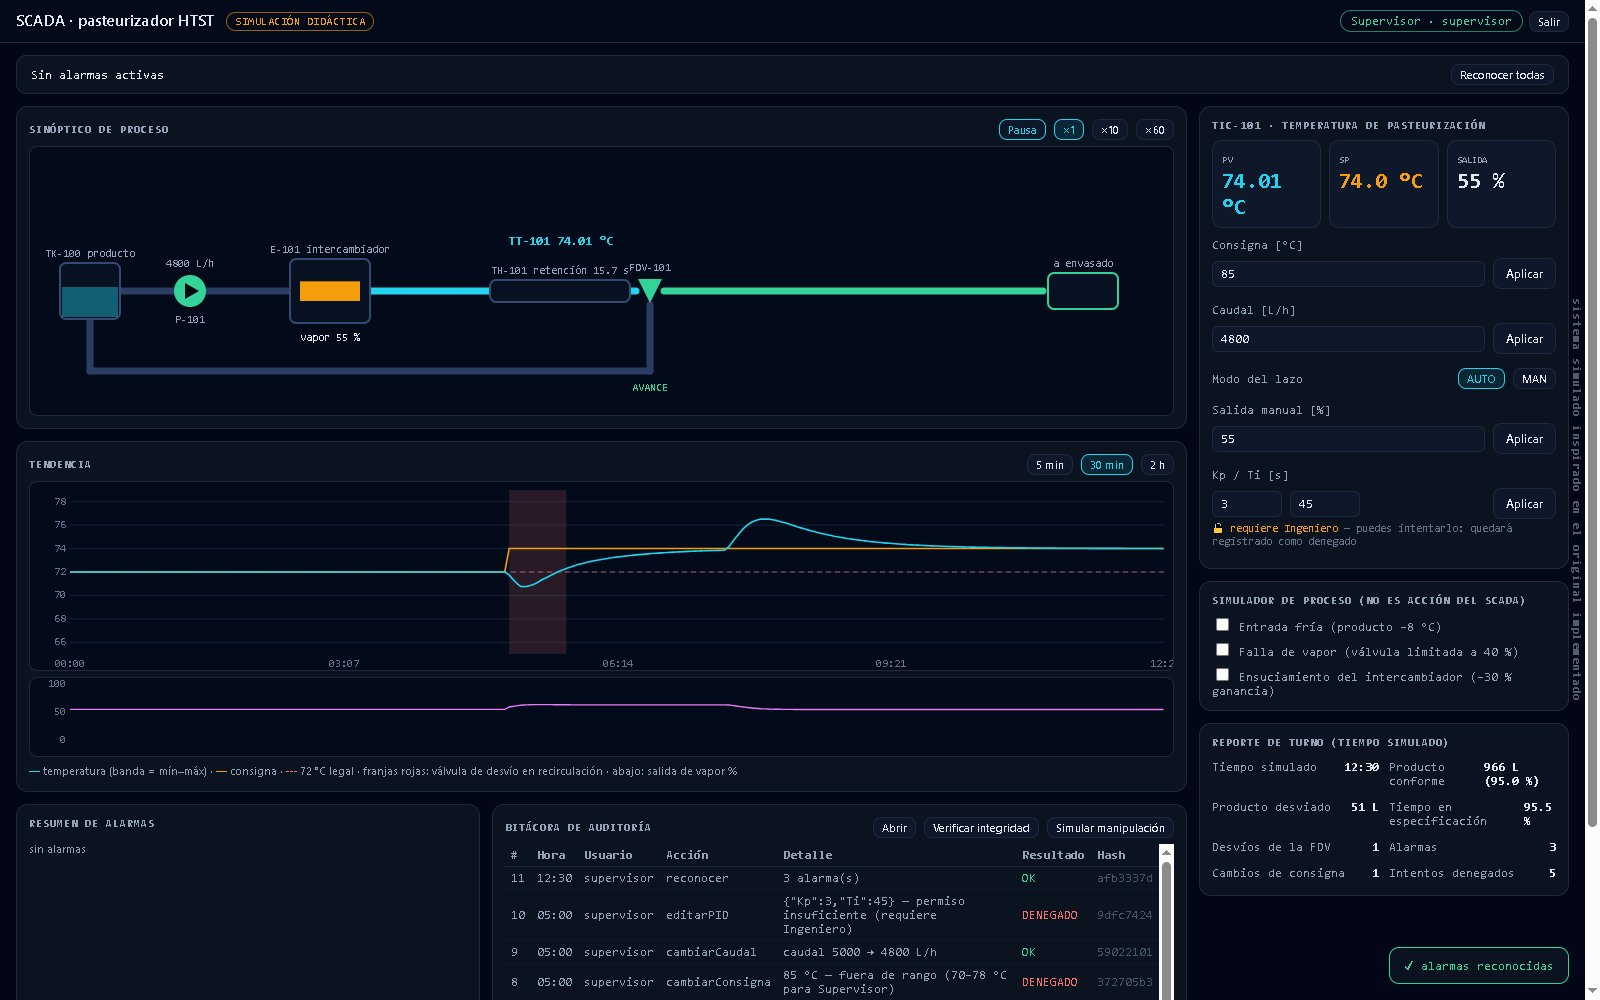
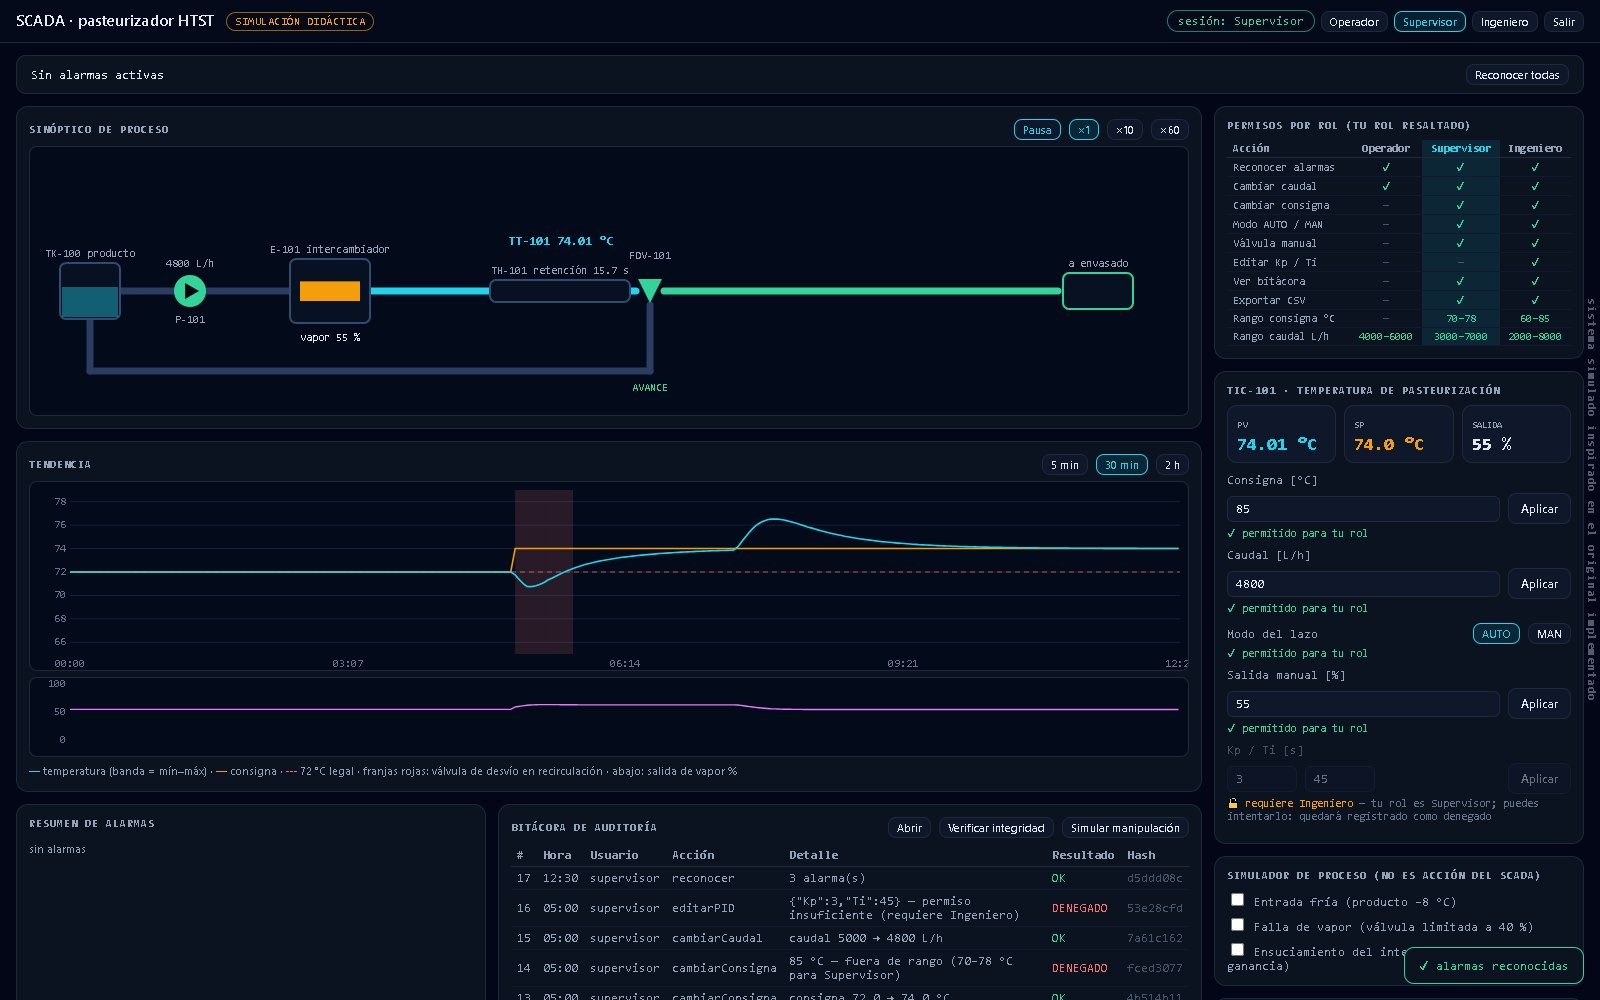
SCADA web: cambio directo de rol, matriz de permisos y controles bloqueados segun el rol
La barra de sesion ya no se redibuja en cada tick; se corrigen etiquetas superpuestas y el valor PV en una linea.

diff --git a/public/demos/scada-web-pasteurizador/index.html b/public/demos/scada-web-pasteurizador/index.html
@@ -65,11 +65,14 @@ body::after {
 #cvMimic { height: 270px; } #cvTr { height: 190px; } #cvU { height: 80px; margin-top: 6px; }
 .fp { display: grid; grid-template-columns: 1fr 1fr 1fr; gap: 8px; margin-bottom: 10px; }
 .fp .c { background: var(--panel2); border: 1px solid var(--line); border-radius: 10px; padding: 7px 9px; }
-.fp .c b { display: block; font: 600 22px var(--mono); } .fp .c span { font: 10px var(--mono); color: var(--mut); text-transform: uppercase; }
+.fp .c b { display: block; font: 600 18px var(--mono); white-space: nowrap; } .fp .c span { font: 10px var(--mono); color: var(--mut); text-transform: uppercase; }
 .ctl { display: grid; grid-template-columns: 1fr auto; gap: 6px 8px; align-items: center; margin-bottom: 8px; font: 12px var(--mono); }
 .ctl .req { color: #64748b; font-size: 10.5px; grid-column: 1 / -1; margin-top: -4px; }
 .ctl input[type=number] { width: 100%; }
 .lock { color: var(--amber); }
+.ctl.bloq > :not(.req) { opacity: .45; } button.bloq { opacity: .5; }
+.perm td, .perm th { padding: 2px 6px; font-size: 11px; text-align: center; white-space: nowrap; } .perm td:first-child, .perm th:first-child { text-align: left; color: var(--mut); }
+.perm .cur { background: rgba(34, 211, 238, .1); } .perm th.cur { color: var(--cyan); } .perm .si { color: var(--green); } .perm .no { color: #475569; }
 #toast { position: fixed; right: 16px; bottom: 16px; max-width: 420px; padding: 10px 14px; border-radius: 10px; font: 12px var(--mono); display: none; z-index: 20; border: 1px solid; background: #0b1220; }
 #toast.ok { border-color: var(--green); color: var(--green); } #toast.no { border-color: var(--red); color: var(--red); }
 .low { display: grid; grid-template-columns: 1fr 1.5fr; gap: 12px; }
@@ -115,6 +118,7 @@ tr.nr td { animation: parp 1s infinite; } @keyframes parp { 50% { background: rg
   </div>
 
   <div class="col">
+    <div class="panel"><h2>Permisos por rol (tu rol resaltado)</h2><div id="perm" class="perm"></div></div>
     <div class="panel">
       <h2>TIC-101 · temperatura de pasteurización</h2>
       <div class="fp"><div class="c"><span>PV</span><b id="pv" class="cy">—</b></div><div class="c"><span>SP</span><b id="sp" class="warn">—</b></div><div class="c"><span>Salida</span><b id="out">—</b></div></div>
@@ -362,13 +366,25 @@ function ejecutar(tipo, valor, etiqueta) {
 }
 
 // ---- Sesión ---------------------------------------------------------------------------------------------
+// La barra de sesión y la matriz solo se redibujan al cambiar de rol: si se rehicieran en cada tick, los botones
+// se reemplazarían cada segundo y algunos clics se perderían.
+let rolPintado = null
 function dibujarSesion() {
   const s = sc.sesion
-  $('ses').innerHTML = s
-    ? `<span class="chip on">${S.ROLES[s.rol]} · ${s.usuario}</span><button id="bSalir" class="mini">Salir</button>`
-    : `<span class="chip">sin sesión</span>${Object.entries(S.ROLES).map(([r, n]) => `<button class="mini" data-rol="${r}">Entrar como ${n}</button>`).join('')}`
-  $('ses').querySelectorAll('[data-rol]').forEach((b) => (b.onclick = () => { S.entrar(sc, b.dataset.rol); audAbierta = false; render() }))
+  $('ses').innerHTML = `<span class="chip${s ? ' on' : ''}">${s ? 'sesión: ' + S.ROLES[s.rol] : 'sin sesión · elige un rol'}</span>${Object.entries(S.ROLES).map(([r, n]) => `<button class="mini${s?.rol === r ? ' on' : ''}" data-rol="${r}">${n}</button>`).join('')}${s ? '<button id="bSalir" class="mini">Salir</button>' : ''}`
+  $('ses').querySelectorAll('[data-rol]').forEach((b) => (b.onclick = () => {
+    if (sc.sesion?.rol === b.dataset.rol) return
+    if (sc.sesion) S.salir(sc) // el cambio de rol queda en la bitácora como cierre + ingreso
+    S.entrar(sc, b.dataset.rol); audAbierta = false; toast(true, `✔ Sesión como ${S.ROLES[b.dataset.rol]}`); render()
+  }))
   if ($('bSalir')) $('bSalir').onclick = () => { S.salir(sc); audAbierta = false; render() }
+}
+const ACC = [['reconocer', 'Reconocer alarmas'], ['cambiarCaudal', 'Cambiar caudal'], ['cambiarConsigna', 'Cambiar consigna'], ['cambiarModo', 'Modo AUTO / MAN'], ['manualValvula', 'Válvula manual'], ['editarPID', 'Editar Kp / Ti'], ['verAuditoria', 'Ver bitácora'], ['exportar', 'Exportar CSV']]
+function dibujarPermisos() {
+  const rol = sc.sesion?.rol, roles = Object.entries(S.ROLES), cur = (r) => (r === rol ? 'cur ' : '')
+  const filas = ACC.map(([a, n]) => `<tr><td>${n}</td>${roles.map(([r]) => { const ok = S.puede(r, a); return `<td class="${cur(r)}${ok ? 'si' : 'no'}">${ok ? '✔' : '—'}</td>` }).join('')}</tr>`)
+    .concat([['consigna', 'Rango consigna °C'], ['caudal', 'Rango caudal L/h']].map(([k, n]) => `<tr><td>${n}</td>${roles.map(([r]) => { const g = S.RANGOS[k][r]; return `<td class="${cur(r)}${g ? 'si' : 'no'}">${g ? g[0] + '–' + g[1] : '—'}</td>` }).join('')}</tr>`))
+  $('perm').innerHTML = `<table><tr><th>Acción</th>${roles.map(([r, n]) => `<th class="${rol === r ? 'cur' : ''}">${n}</th>`).join('')}</tr>${filas.join('')}</table>`
 }
 
 // ---- Controles ------------------------------------------------------------------------------------------
@@ -398,10 +414,15 @@ $('bCsvT').onclick = () => { const r = S.exportarCsv(sc, 'tendencia'); toast(r.o
 const prio = { 3: 'Alta', 2: 'Media', 1: 'Baja' }
 function render() {
   const p = sc.proc, rol = sc.sesion?.rol
-  dibujarSesion()
+  if (rolPintado !== (rol ?? '')) { rolPintado = rol ?? ''; dibujarSesion(); dibujarPermisos() }
   $('pv').textContent = p.T.toFixed(2) + ' °C'; $('sp').textContent = p.sp.toFixed(1) + ' °C'; $('out').textContent = p.u.toFixed(0) + ' %'
   $('pv').className = p.T >= 72 ? 'cy' : 'bad'
-  for (const [k, accion] of Object.entries(REQ)) { const ok = S.puede(rol, accion); $('r' + k).innerHTML = ok ? '' : `<span class="lock">🔒 requiere ${NOMBRE_REQ[accion]}</span> — puedes intentarlo: quedará registrado como denegado` }
+  for (const [k, accion] of Object.entries(REQ)) {
+    const ok = S.puede(rol, accion), caja = $('r' + k)
+    caja.parentElement.classList.toggle('bloq', !ok)
+    caja.innerHTML = ok ? '<span class="ok">✔ permitido para tu rol</span>' : `<span class="lock">🔒 requiere ${NOMBRE_REQ[accion]}</span> — ${rol ? `tu rol es ${S.ROLES[rol]}` : 'sin sesión'}; puedes intentarlo: quedará registrado como denegado`
+  }
+  for (const [id, accion] of [['bAck', 'reconocer'], ['bAbrirAud', 'verAuditoria'], ['bCsvA', 'exportar'], ['bCsvT', 'exportar']]) $(id).classList.toggle('bloq', !S.puede(rol, accion))
   $('bAuto').classList.toggle('on', p.modo === 'AUTO'); $('bMan').classList.toggle('on', p.modo === 'MAN')
   // alarmas
   const act = sc.alarmas.filter((a) => a.estado !== 'NORMAL').sort((a, b) => ({ ACTIVA_NR: 0, RTN_NR: 1, ACTIVA_R: 2 })[a.estado] - ({ ACTIVA_NR: 0, RTN_NR: 1, ACTIVA_R: 2 })[b.estado] || b.prio - a.prio)
@@ -438,7 +459,7 @@ function dibujarMimic() {
   caja(x.hold + 60, yM, 140, 22, `TH-101 retención ${p.hold.toFixed(1)} s`, p.hold >= 15 ? '#334a73' : '#f87171')
   c.fillStyle = p.T >= 72 ? '#22d3ee' : '#f87171'; c.font = '600 13px ui-monospace, Consolas, monospace'; c.fillText(`TT-101 ${p.T.toFixed(2)} °C`, x.hold + 60, yM - 46); c.font = '11px ui-monospace, Consolas, monospace'
   c.fillStyle = desvio ? '#f87171' : '#34d399'; c.beginPath(); c.moveTo(x.fdv - 12, yM - 12); c.lineTo(x.fdv + 12, yM - 12); c.lineTo(x.fdv, yM + 12); c.fill()
-  c.fillStyle = '#94a3b8'; c.fillText('FDV-101', x.fdv, yM - 20); c.fillStyle = desvio ? '#f87171' : '#34d399'; c.fillText(desvio ? 'RECIRCULA' : 'AVANCE', x.fdv, yM + 100)
+  c.fillStyle = '#94a3b8'; c.fillText('FDV-101', x.fdv, yM - 32); c.fillStyle = desvio ? '#f87171' : '#34d399'; c.fillText(desvio ? 'RECIRCULA' : 'AVANCE', x.fdv, yM + 100)
   caja(x.out, yM, 70, 36, 'a envasado', desvio ? '#334a73' : '#34d399')
 }
 function dibujarTend() {
